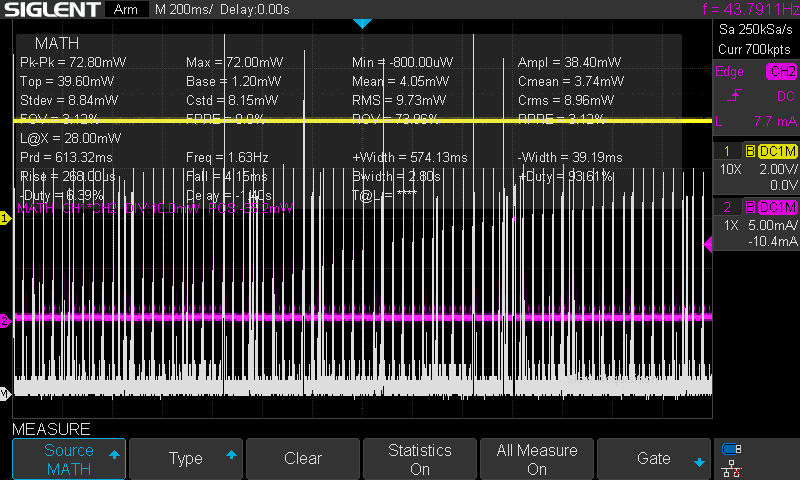
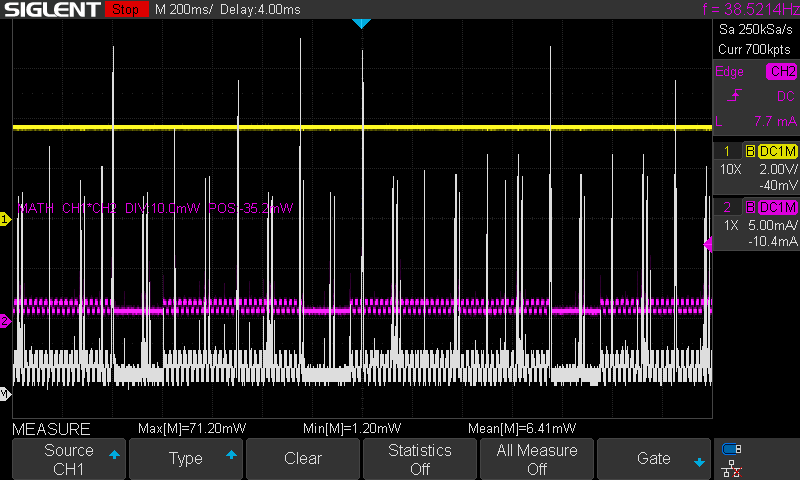
doc: retake power consumption measurements

diff --git a/README.md b/README.md
@@ -42,10 +42,15 @@ Power banks or OTG cables are not recommended: most will shut off under light lo
 
 ## Power consumption
 
+These assume typical operation conditions: 
+
+- The default 50% LED brightness option is used.
+- A T-800 sensor is already paired and persisted in flash.
+
 | State | Consumption || 
 | --- | --- | ---|
-| Connected (LED dimmed to 4%) | ~4mW | ![Power when Connected](assets/power_connected.png) |
-| Low power search | ~5mW | ![Power when Disconnected](assets/power_disconnected.png) |
+| Connected | ~6.4mW | ![Power when Connected](assets/power_connected.png) |
+| Low power search | ~3.7mW | ![Power when Disconnected](assets/power_disconnected.png) |
 
 ### Custom battery gauge
 
